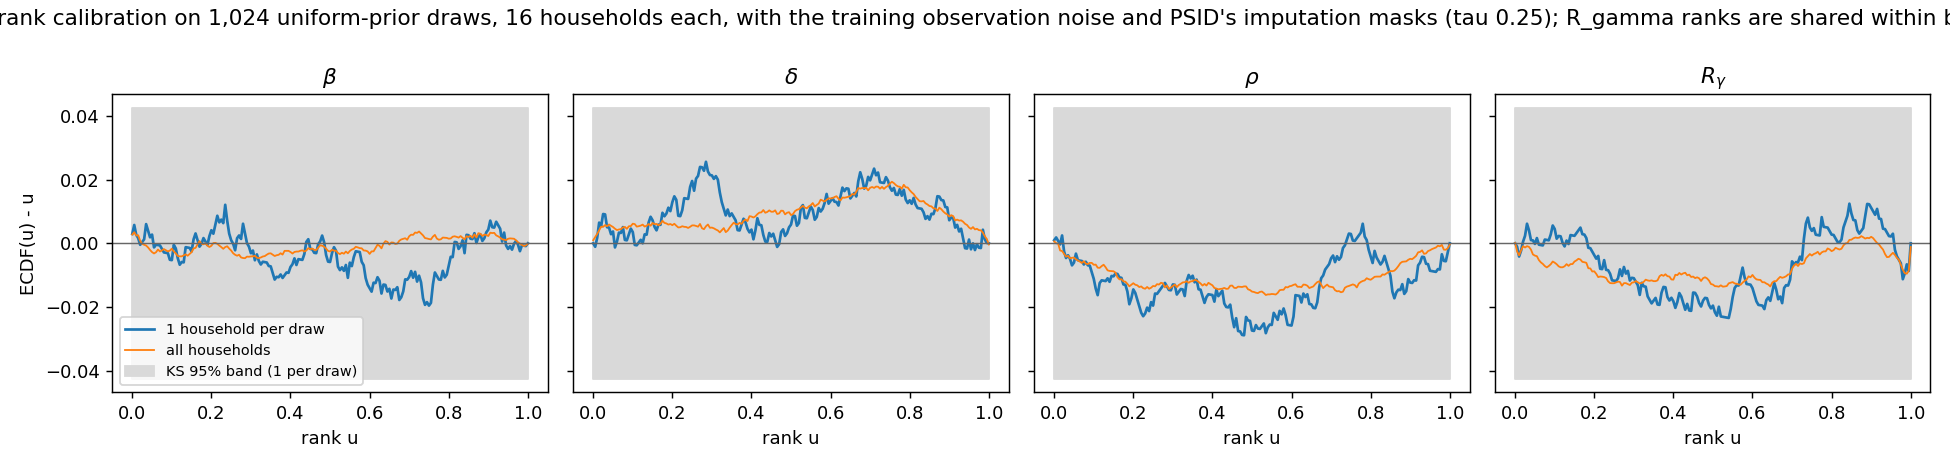
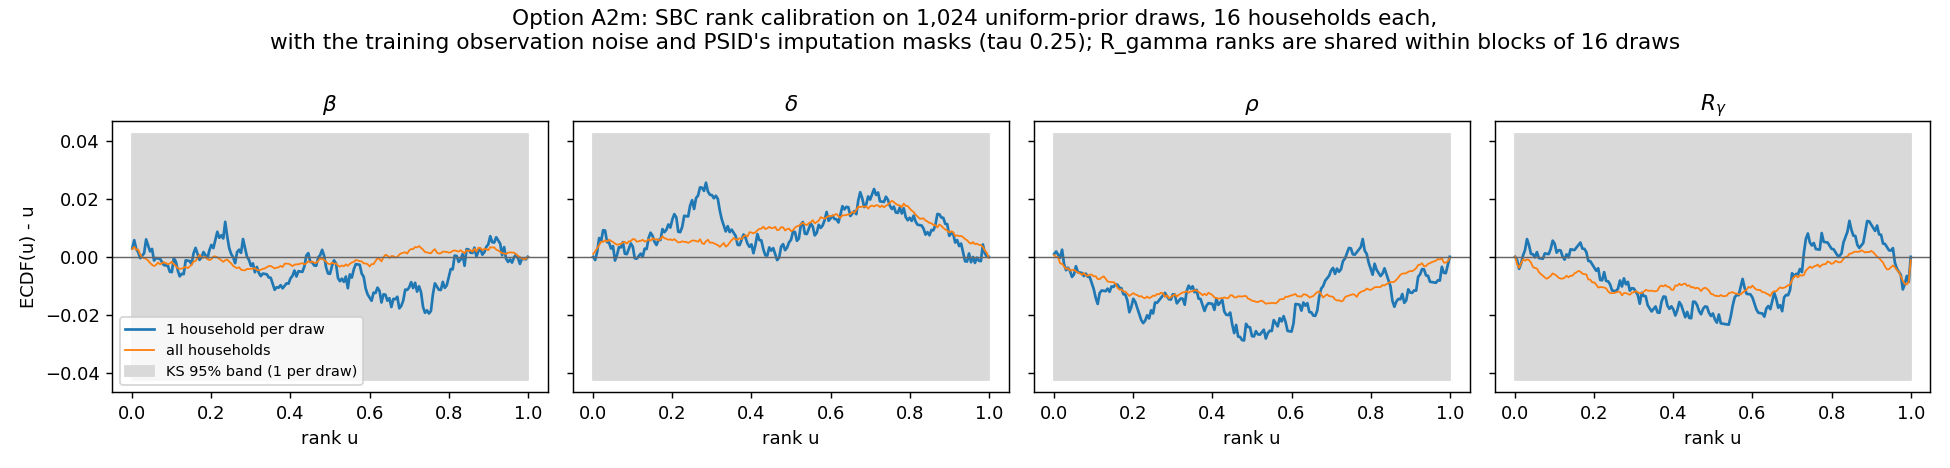
Figure 57: wrap the SBC title onto two lines so it fits the figure

diff --git a/scripts/sbc_optionA2.py b/scripts/sbc_optionA2.py
@@ -130,7 +130,7 @@ def title(run_dirs, spec) -> str:
     name = Path(run_dirs[0]).parent.name.replace("option", "Option ")
     what = "the training observation noise" + (
         f" and PSID's imputation masks (tau {spec.imputation_mask[1]:g})" if spec.masked else "")
-    return (f"{name}: SBC rank calibration on 1,024 uniform-prior draws, 16 households each, "
+    return (f"{name}: SBC rank calibration on 1,024 uniform-prior draws, 16 households each,\n"
             f"with {what}; R_gamma ranks are shared within blocks of 16 draws")
 
 
